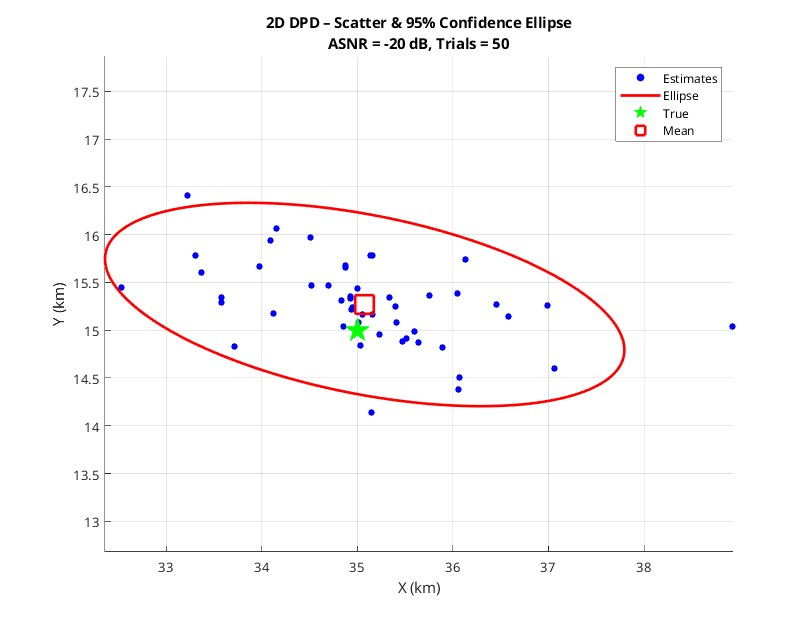
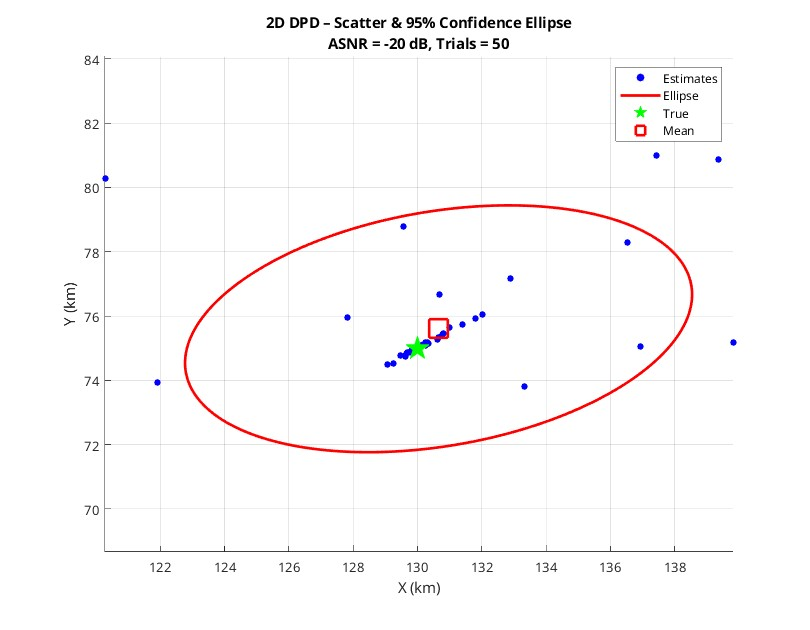
push

diff --git a/fig72d.m b/fig72d.m
@@ -11,16 +11,16 @@ N = length(t);       % ALWAYS a column vector
 
 % --- 2D Sensor Geometry ---
 Sensors = [
-    0,  0;
     0, 50;
     50, 0;
-    50, 50;
-    25, 25
+    25,0;
+    0, 25;
+    0,0;
 ];
 M = size(Sensors,1);
 
 % True emitter location (2D)
-Emitter_True = [35, 15];
+Emitter_True = [130, 75];
 
 % Gaussian Chirp Parameters
 sigma_F = 0.2*pi*1e6;
@@ -89,6 +89,8 @@ Cov_Est = cov(Est);
 
 disp("Finished Monte Carlo.");
 
+% disp("Finished Monte Carlo.");
+
 figure('Color','w','Position',[200 200 800 600]);
 hold on; grid on; axis equal;
 
@@ -100,11 +102,14 @@ plot(Mean_Est(1), Mean_Est(2), 'rs', 'MarkerSize',18,'LineWidth',2);
 
 scatter(Sensors(:,1), Sensors(:,2), 100, 'k', 'filled');
 
-xlabel('X (km)');
-ylabel('Y (km)');
-title(sprintf('2D DPD – Scatter & 95%% Confidence Ellipse\nASNR = %d dB, Trials = %d', ASNR_dB, Trials));
+xlabel('X (km)', 'FontSize', 18);
+ylabel('Y (km)', 'FontSize', 18);
+
+title(sprintf('2D DPD – Scatter & 95%% Confidence Ellipse\nASNR = %d dB, Trials = %d', ...
+    ASNR_dB, Trials), 'FontSize', 22, 'FontWeight','bold');
 
 legend('Estimates','Ellipse','True','Mean','Sensors');
+
 
 function J = dpd_cost_2d(pos, R, Sensors, c, freqs)
 
